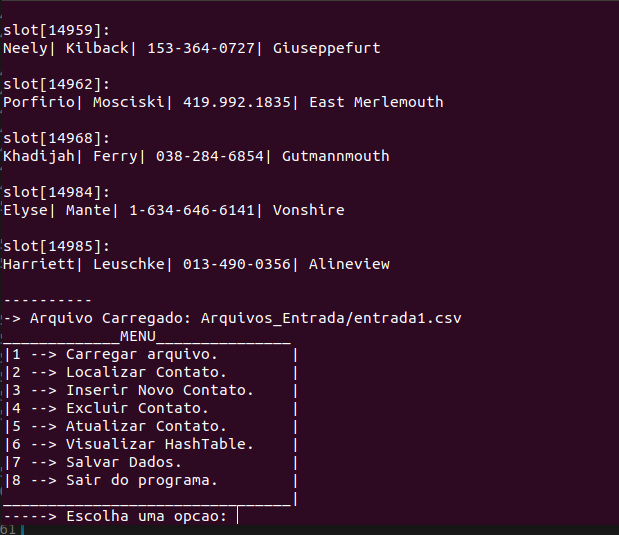
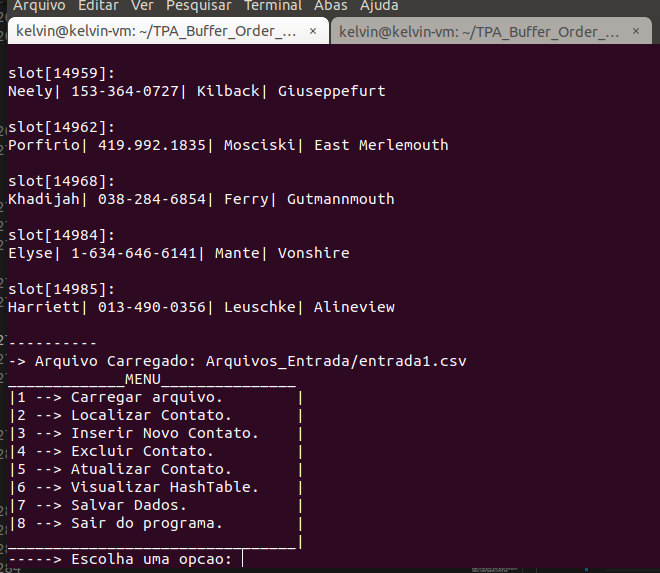
wip

Changed region(s): [[0.0, 0.0, 1.0, 1.0], [0.706, 0.9869, 0.7981, 1.0]]

diff --git a/hashing.c b/hashing.c
@@ -317,7 +317,7 @@ HashT *load_file_on_hashtable(char *file_name)
     unsigned long int i = 0;
     for(i = 0; i < qtd_lines; i++)
     {
-        fscanf(file, "%[^,],%[^,],%[^,],%[^,],\n", complete_name, phone, city, country);
+        fscanf(file, "%[^,],%[^,],%[^,],%[^,],\n", complete_name, city, phone, country);
         set_value_ht(hashtable, complete_name, phone, city, country);
     }
     fclose(file);

diff --git a/README.md b/README.md
@@ -261,7 +261,7 @@ Primeiro selecionamos a opção e digitamos o nome do contato. Em seguida, é ab
 
 E ao buscar o contato novamente, vemos o seu país atualizado.
 
-![contato_atualizado]()
+![contato_atualizado](https://github.com/GodKelvin/TPA_Buffer_Order_Merges/blob/master/imagens_readme/contato_atualizado.png)
 
 <b> Opção 6: Visualizando HashTable </b>
 
@@ -269,9 +269,15 @@ O arquivo de entrada contém 10 mil registros, e o tamanho da tabela, eu defini 
 
 Obviamente não é possivel mostrar todo o conteúdo da tabela no terminal, sendo assi, mostro o inicio e o fim da mesma.
 
-![inicio_ht]()
+Mostro o tamanho da tabela (15 mil).
+O slot é referente a posição do contato na tabela (ou seja, a Danyelle ocupa o slot 4). 
 
-![fim_ht]()
+E em baixo do slot é informado o nome completo, cidade, telefone e país, separados por <b>|</b>.
+
+
+![inicio_ht](https://github.com/GodKelvin/TPA_Buffer_Order_Merges/blob/master/imagens_readme/inicio_ht.png)
+
+![fim_ht](https://github.com/GodKelvin/TPA_Buffer_Order_Merges/blob/master/imagens_readme/fim_ht.png)
 
 
 
